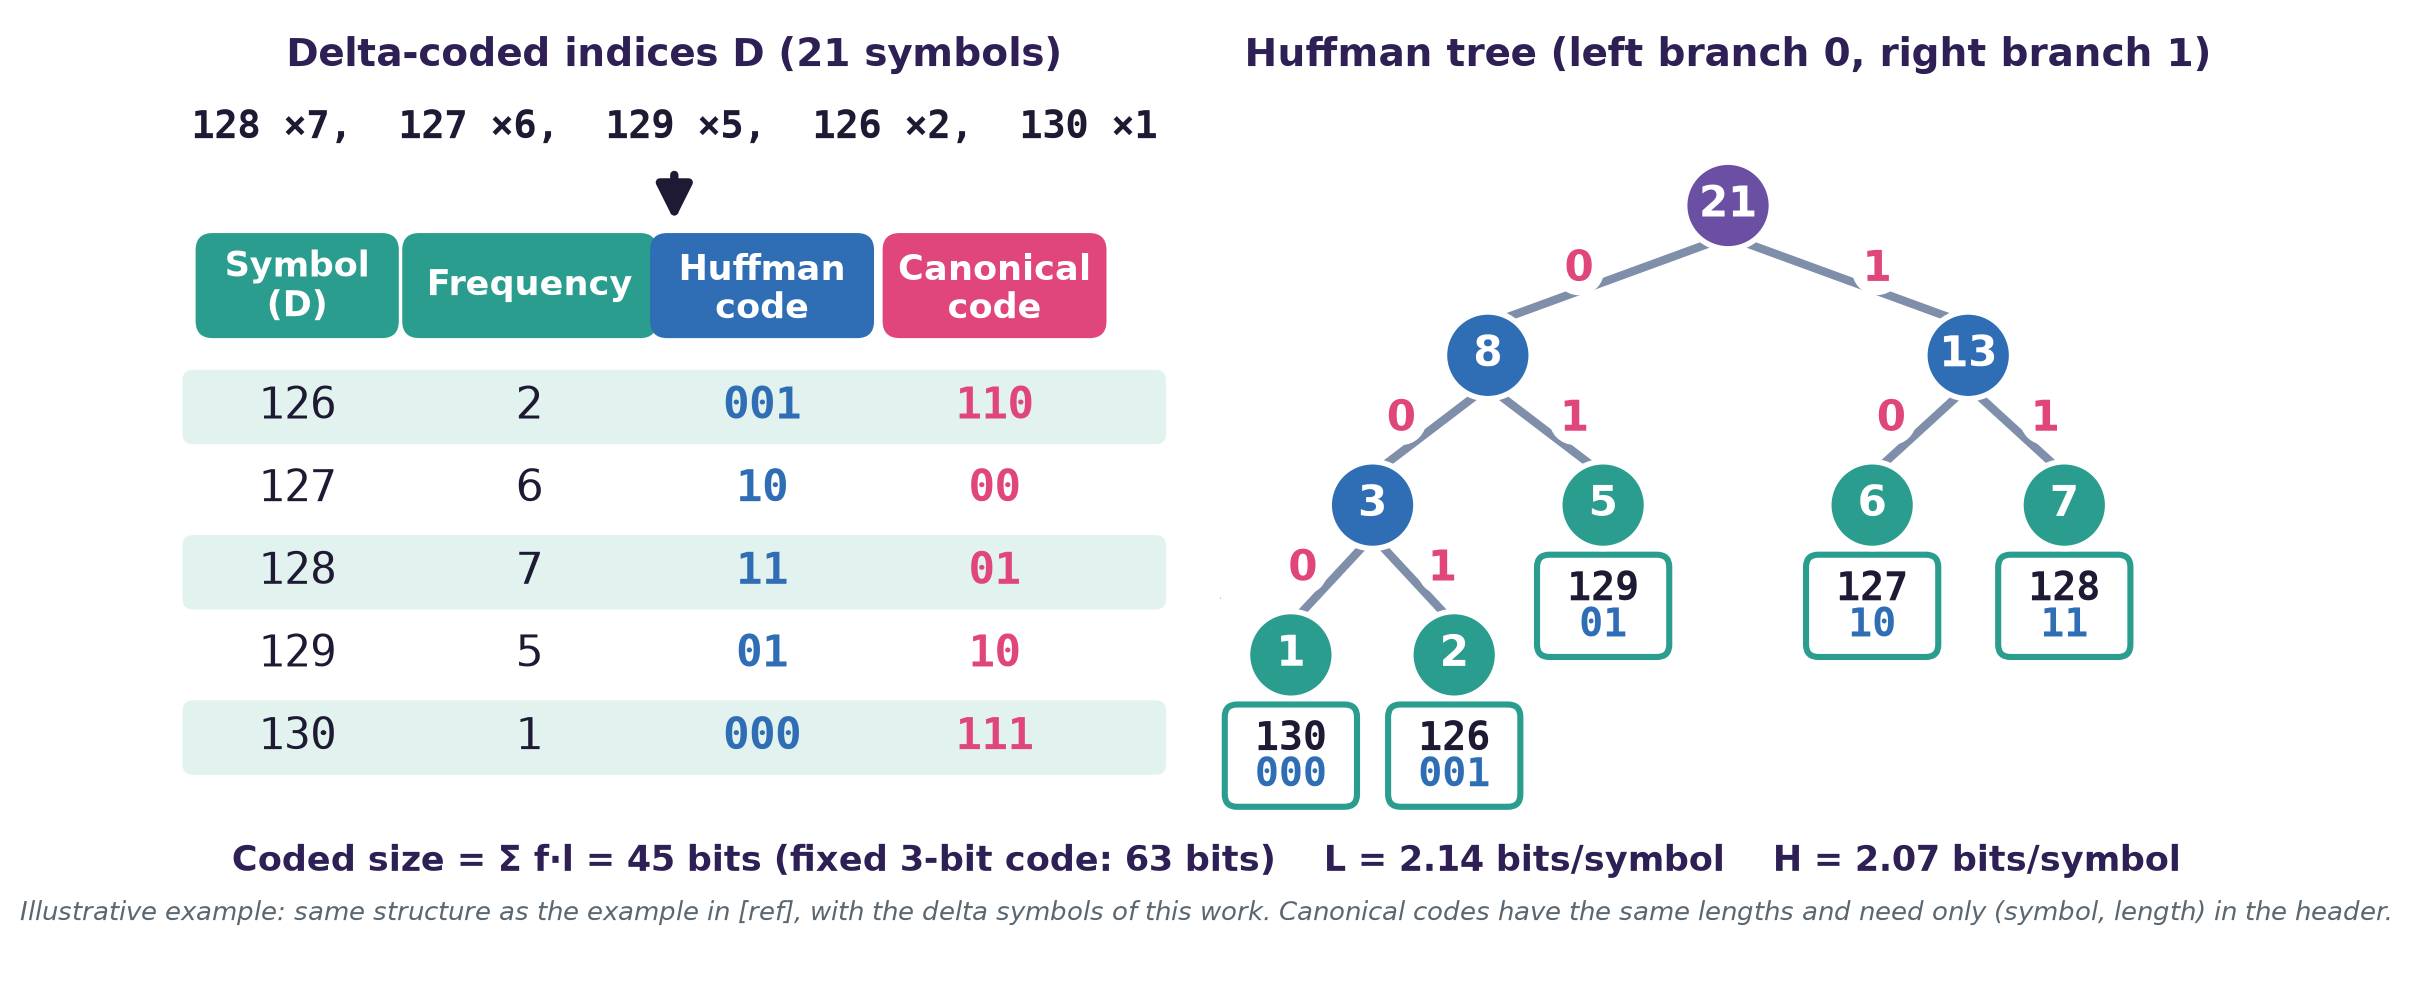
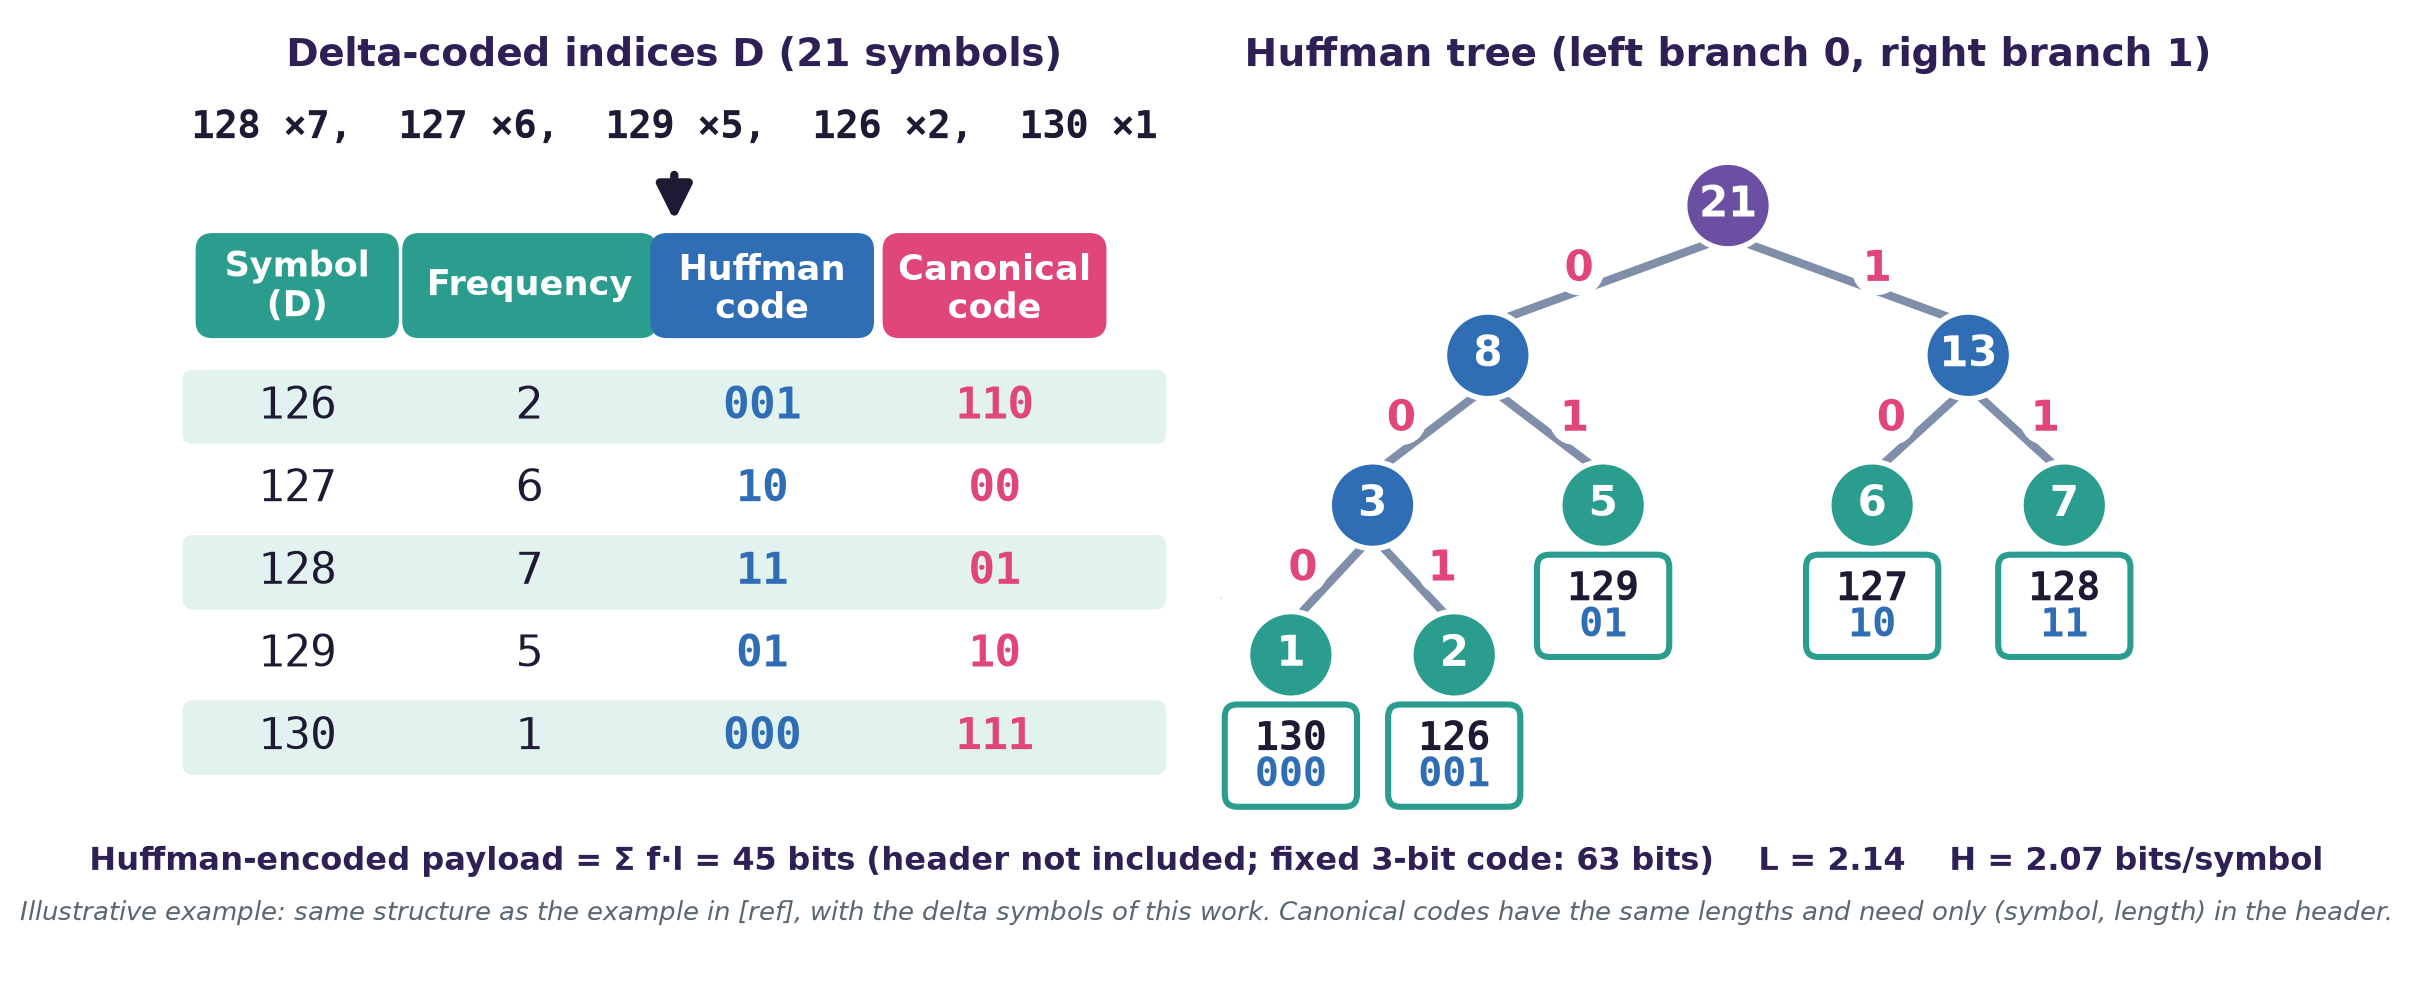
Huffman example figure: label the 45 bits as payload (header not included)
Claude-Session: https://claude.ai/code/session_01T6gEewJ8YaCdmnsfS34RJd

Changed region(s): [[0.0311, 0.8485, 0.9639, 0.8788]]

diff --git a/results/seminar/make_huffman_combined.py b/results/seminar/make_huffman_combined.py
@@ -66,8 +66,8 @@ for k, s in leaf.items():
     ax.text(px, py - 1.17, tree_code[s], ha="center", va="center", fontsize=14.5, fontweight="bold", color=BLUE, family="monospace")
 
 ax.add_patch(FancyArrowPatch((9.75, 3.0), (10.2, 3.0), arrowstyle="-|>", mutation_scale=1, lw=0))
-ax.text(10.0, 0.45, f"Coded size = Σ f·l = {bits} bits (fixed 3-bit code: {3 * N} bits)    L = {avg:.2f} bits/symbol    H = {H:.2f} bits/symbol",
-        ha="center", va="center", fontsize=12.5, color=DEEP, fontweight="bold")
+ax.text(10.0, 0.45, f"Huffman-encoded payload = Σ f·l = {bits} bits (header not included; fixed 3-bit code: {3 * N} bits)    L = {avg:.2f}    H = {H:.2f} bits/symbol",
+        ha="center", va="center", fontsize=11.6, color=DEEP, fontweight="bold")
 ax.text(10.0, -0.05, "Illustrative example: same structure as the example in [ref], with the delta symbols of this work. Canonical codes have the same lengths and need only (symbol, length) in the header.",
         ha="center", va="center", fontsize=9.2, color="#5B6770", style="italic")
 plt.savefig("figs/huffman_example_tree.png", bbox_inches="tight", facecolor="white")
